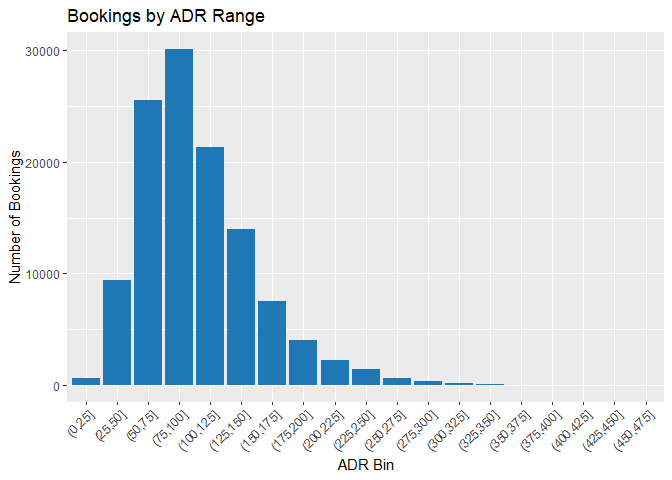
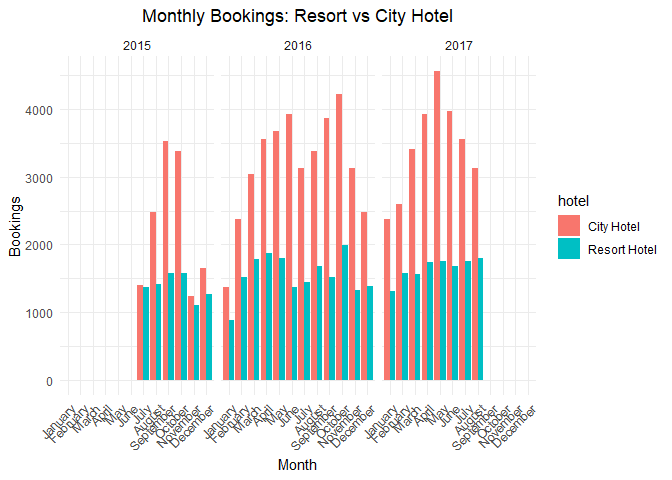
merge conflict

diff --git a/README.md b/README.md
@@ -219,7 +219,7 @@ Intense exploration and evidence of many trials and failures. Presents
 best ideas, rather than all ideas. Additional research from other
 sources used to help understand/explain findings.
 
-How does the time of year affect hotel bookings?
+### How does the time of year affect hotel bookings?
 
 ``` r
 #Have to make months a factor to reorder in order of correct months
@@ -230,7 +230,7 @@ data$arrival_date_month <- factor(data$arrival_date_month, levels = c("January",
 #We separate hotel bookings per month and facet that by year, as we'd have more months for those included on the half years. 
 
 #color code the months by temperature 
-cold_to_warm_colors <- c(
+monthcolors <- c(
   "January" = "#4575b4",  
   "February" = "#74add1",  
   "March" = "#abd9e9",
@@ -247,10 +247,10 @@ cold_to_warm_colors <- c(
 
 ggplot(data, aes(x = arrival_date_month, fill = arrival_date_month)) +
   geom_bar(width = 0.8) + 
-  labs(title = "Hotel Bookings per Month (Faceted by Year)", 
+  labs(title = "Hotel Bookings per Month", 
        x = "Month", y = "Number of Bookings") +
   facet_wrap(~ arrival_date_year) +
-  scale_fill_manual(values = cold_to_warm_colors) +
+  scale_fill_manual(values = monthcolors) +
   theme_minimal() +
   theme(
     axis.text.x = element_text(angle = 45, hjust = 1, vjust = 1),
@@ -271,7 +271,28 @@ and summer months, and in 2017 it was May with the highest number of
 bookings, with its surrounding months following it. For the most part we
 still see that months with warmer weather have more bookings.
 
-How does the average daily rate affect bookings?
+Now we observe how how the month affects the bookings separately for the
+resort and city hotels.
+
+``` r
+ggplot(data, aes(x = arrival_date_month, fill = hotel)) +
+  geom_bar(position = "dodge") +
+  facet_wrap(~ arrival_date_year) +
+  labs(title = "Monthly Bookings: Resort vs City Hotel", x = "Month", y = "Bookings") +
+  theme_minimal() +
+  theme(axis.text.x = element_text(angle = 45, hjust = 1),
+        plot.title = element_text(hjust = 0.5))
+```
+
+![](README_files/figure-gfm/unnamed-chunk-3-1.png)<!-- -->
+
+As you can see, for the most part the two hotels follow relatively the
+same trend with the months with a few exceptions. We also notice that
+the city hotel has a lot more bookings in comparison to the resort
+hotel. The city hotel also has more variation in the number of bookings,
+while the resort hotels number of bookings seems more consisent.
+
+### How does the average daily rate affect bookings?
 
 ``` r
 # Load required libraries
@@ -305,7 +326,7 @@ data %>%
   theme(axis.text.x = element_text(angle = 45, hjust = 1))
 ```
 
-![](README_files/figure-gfm/unnamed-chunk-3-1.png)<!-- -->
+![](README_files/figure-gfm/unnamed-chunk-4-1.png)<!-- -->
 
 ``` r
 # 4. ADR by Month
@@ -320,7 +341,7 @@ ggplot(monthly_adr_data, aes(x = arrival_date_month, y = avg_adr, fill = arrival
   scale_x_discrete(limits = levels(data$arrival_date_month))
 ```
 
-![](README_files/figure-gfm/unnamed-chunk-3-2.png)<!-- -->
+![](README_files/figure-gfm/unnamed-chunk-4-2.png)<!-- -->
 
 ``` r
 # Calculate average bookings by month, considering different years
@@ -343,7 +364,7 @@ ggplot(monthly_avg_bookings, aes(x = arrival_date_month, y = avg_bookings, fill 
   scale_x_discrete(limits = levels(data$arrival_date_month))
 ```
 
-![](README_files/figure-gfm/unnamed-chunk-3-3.png)<!-- -->
+![](README_files/figure-gfm/unnamed-chunk-4-3.png)<!-- -->
 
 ``` r
 # Monthly comparison: avg_adr and avg_bookings by month and year
@@ -383,7 +404,7 @@ ggplot(monthly_comparison_long, aes(x = arrival_date_month, y = value, fill = me
   theme(axis.text.x = element_text(angle = 45, hjust = 1))
 ```
 
-![](README_files/figure-gfm/unnamed-chunk-3-4.png)<!-- -->
+![](README_files/figure-gfm/unnamed-chunk-4-4.png)<!-- -->
 
 ``` r
 ggplot(monthly_comparison_long, aes(x = arrival_date_month, y = value, fill = metric)) +
@@ -399,4 +420,4 @@ ggplot(monthly_comparison_long, aes(x = arrival_date_month, y = value, fill = me
   theme(axis.text.x = element_text(angle = 45, hjust = 1))
 ```
 
-![](README_files/figure-gfm/unnamed-chunk-3-5.png)<!-- -->
+![](README_files/figure-gfm/unnamed-chunk-4-5.png)<!-- -->
